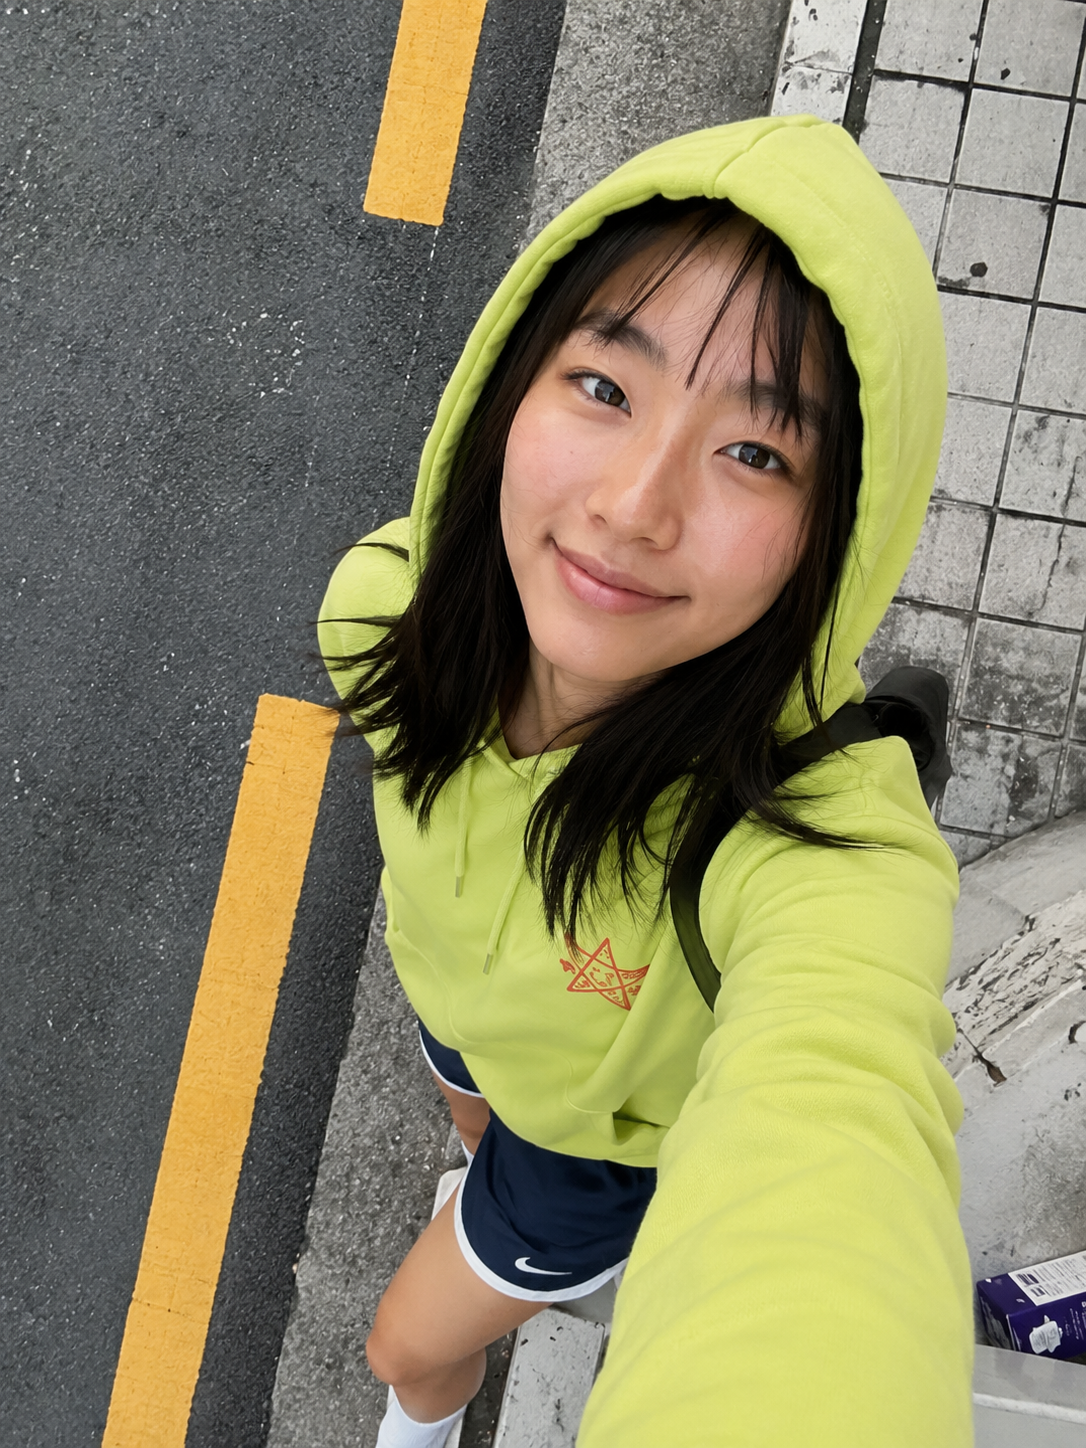
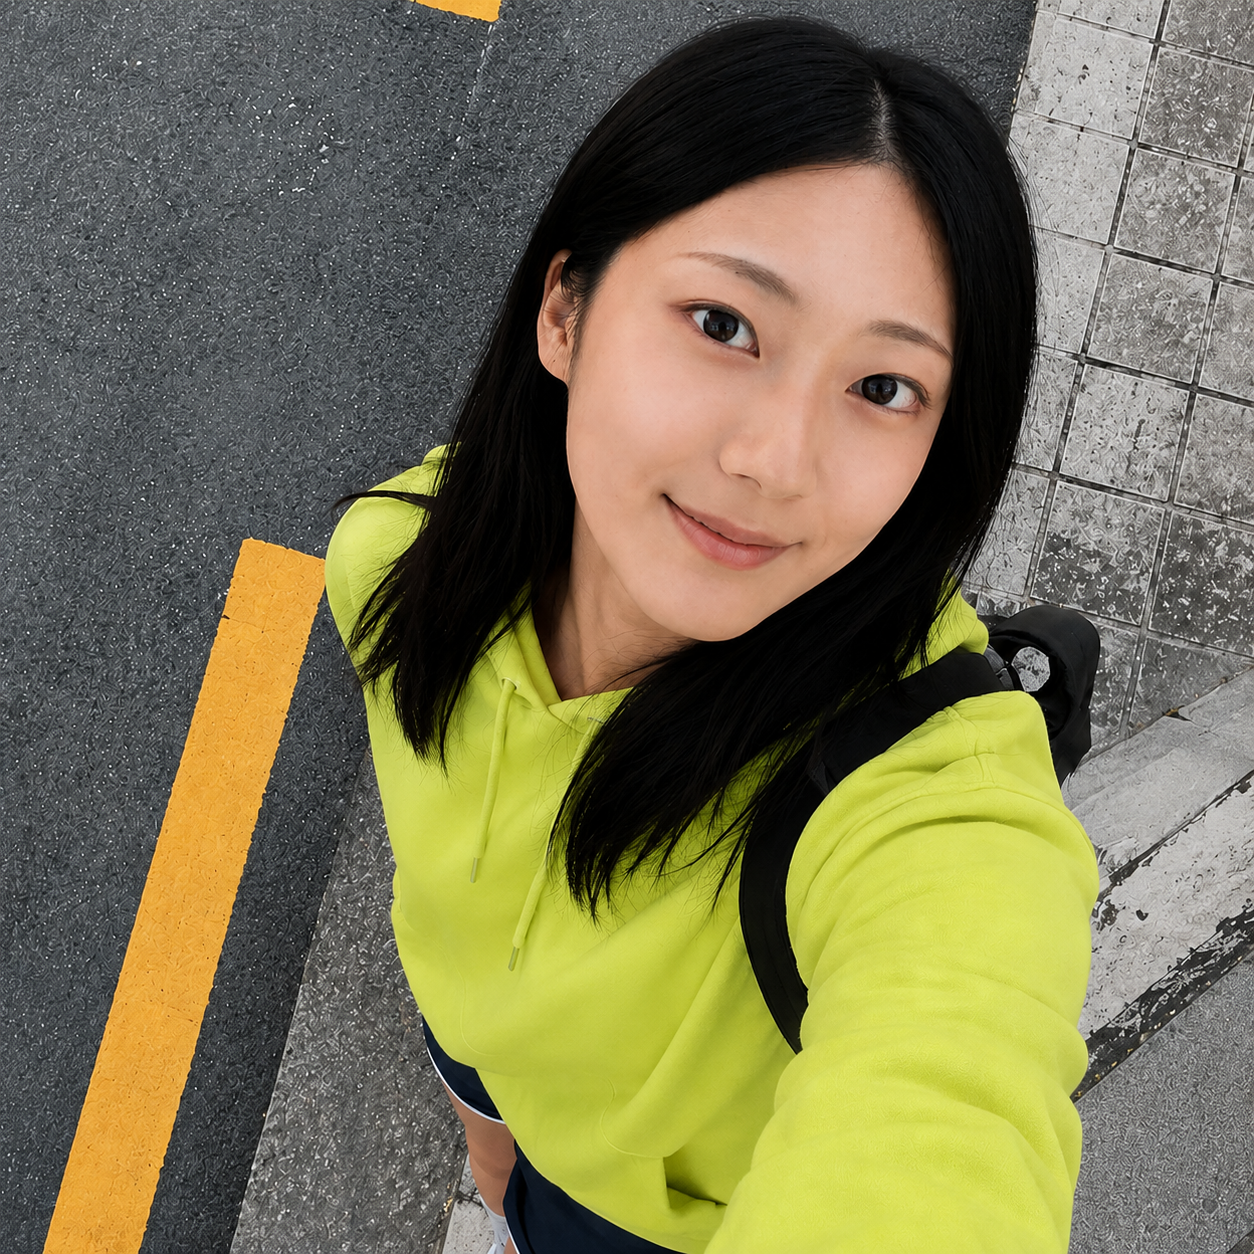
복싱 실전 구간에 시간 캡션 — UI 정본 값 그대로
wallgl.js 주석의 팩 정본: Stretch 4m · Learn 8m · Strike! 23m (6 Rounds × 3m Work
· 1m Rest) = Total 35m. 전환 화면(BX_T2)은 이미 next: Strike! 23m 을 보여주는데
실전 구간(C1~C4)은 sub 가 1/3·2/3·3/3 뿐이라 시간 언급이 없었다.

  BX_C1  ''     → 'Strike! · 23m'
  BX_C2  '1/3'  → '1/3 · Strike! 23m'
  BX_C3  '2/3'  → '2/3 · Strike! 23m'
  BX_C4  '3/3'  → '3/3 · Strike! 23m'

숫자는 새로 만들지 않고 READY 화면·전환 화면과 같은 값(23m)을 쓴다.

diff --git a/src/wallgl.js b/src/wallgl.js
@@ -72,13 +72,13 @@ const SCENES = {
     say: 'Slip your head left and right', cues: ['Slip right!', 'And left!', 'Under it', 'Keep moving'], combos: [] },
   BX_B3: { title: 'JAB SWEEP', phase: 2, sub: '3/3', coach: { num: '6', unit: 'Sweeps' }, you: { num: '6', unit: 'Sweeps' },
     say: 'Follow the sweep, hit the target', cues: ['Follow it', 'Jab!', 'On target', 'Again!'], combos: [] },
-  BX_C1: { title: 'START SIGNAL', phase: 3, sub: '', coach: { num: '3', unit: 'Go' }, you: { num: '', unit: '' },
+  BX_C1: { title: 'START SIGNAL', phase: 3, sub: 'Strike! · 23m', coach: { num: '3', unit: 'Go' }, you: { num: '', unit: '' },
     say: '3, 2, 1 — spar!', cues: [], combos: [] },
-  BX_C2: { title: 'JAB SPAR', phase: 3, sub: '1/3', coach: { num: '8', unit: 'Thrown' }, you: { num: '5', unit: 'Landed' },
+  BX_C2: { title: 'JAB SPAR', phase: 3, sub: '1/3 · Strike! 23m', coach: { num: '8', unit: 'Thrown' }, you: { num: '5', unit: 'Landed' },
     say: 'Jab when the target shows', cues: ['Target up!', 'Jab!', 'Nice', 'Reset', 'Again!'], combos: ['Jab!'] },
-  BX_C3: { title: 'COMBINATION', phase: 3, sub: '2/3', coach: { num: '3', unit: 'Openings' }, you: { num: '3', unit: 'Combo' },
+  BX_C3: { title: 'COMBINATION', phase: 3, sub: '2/3 · Strike! 23m', coach: { num: '3', unit: 'Openings' }, you: { num: '3', unit: 'Combo' },
     say: 'Keep the rhythm — jab, jab, hook', cues: ['Jab, jab…', 'Hook!', 'Rhythm!', 'Don’t stop'], combos: ['Jab · Jab · Hook!'] },
-  BX_C4: { title: 'COOL DOWN', phase: 3, sub: '3/3', coach: { num: '', unit: '' }, you: { num: '', unit: '' },
+  BX_C4: { title: 'COOL DOWN', phase: 3, sub: '3/3 · Strike! 23m', coach: { num: '', unit: '' }, you: { num: '', unit: '' },
     say: 'Breathe, drop your guard. Well done', cues: ['Breathe…', 'Guard down', 'Well done', 'Good work'], combos: [] },
 };
 // 팩 정본 = Figma bK3Q9xIQ(팩 시청·설정 5화면·Main workout) — 'Bring the Ring Home' by Casey.

diff --git a/public/ready-view/scene.html b/public/ready-view/scene.html
@@ -37,7 +37,9 @@ html,body{background:transparent}
 .avatar.coach{left:100px}
 .avatar.you{left:2263px}
 .avatar .ph{position:relative;width:217px;height:217px;border-radius:999px;overflow:hidden}
-.avatar .ph img{position:absolute;left:-28.09px;top:-74.05px;width:275.305px;height:511.608px;object-fit:cover;max-width:none}
+/* 프레이밍은 소스 사진 비율에 묶여 있다 — you_avatar.png 를 갈면 얼굴이 원 중심에 오도록 다시 잡을 것.
+   (현재 소스 = 1:1 정사각 셀카. 예전 3:4 세로 소스 값 left:-28.09 top:-74.05 275.305x511.608 은 머리가 잘렸다) */
+.avatar .ph img{position:absolute;left:-123.2px;top:-15.9px;width:390px;height:390px;object-fit:cover;max-width:none}
 .num{position:absolute;font-family:'OffBit';font-size:200px;line-height:normal;letter-spacing:-8px;top:1148px;width:364px}
 .num.l{left:100px;text-align:left}
 .num.r{left:2136px;text-align:right}
